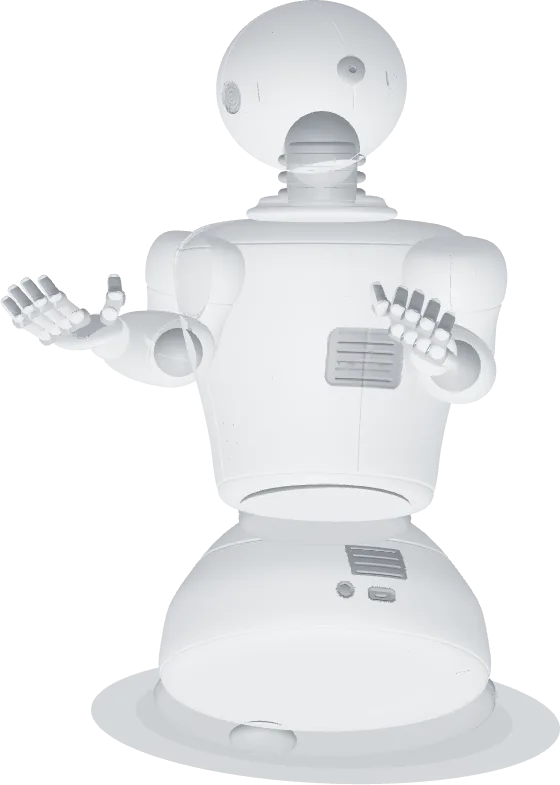
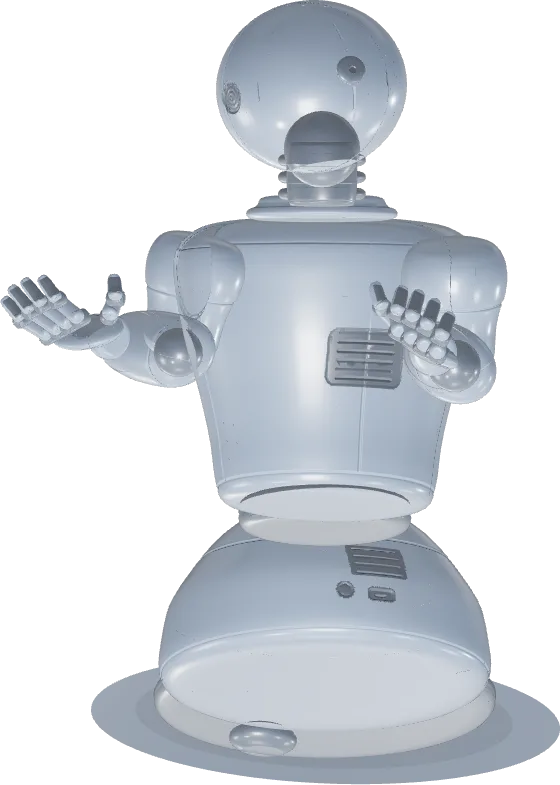
feat: ink-ceramic objects on light chapters with continuous tone blending
- light chapters render objects as deep glossy blue ceramic with a bright rim; dark chapters keep pale pearl; the two blend continuously
- phone stills regenerated in the same palette
- restore the ZONE-01 test dropped by the VEIL-01 rewrite

diff --git a/src/scripts/scene3d.js b/src/scripts/scene3d.js
@@ -140,8 +140,10 @@ export function createScene(canvas, labelLayer) {
     if (state.blend) { si = state.blend.a; sj = state.blend.b; f = Math.max(0, Math.min(1, state.blend.t)); if (si === sj) f = 0; }
     else { const m = Math.max(0, Math.min(STATES.length - 1, state.morph)); si = Math.floor(m); sj = Math.min(STATES.length - 1, si + 1); f = m - si; }
     const ease = f * f * (3 - 2 * f);
-    const isDark = state.ink[0] > 128;
-    renderer.toneMappingExposure += ((isDark ? 0.92 : 0.74) - renderer.toneMappingExposure) * 0.08;   // a deeper exposure on light chapters so part colours separate
+    // 0 on light chapters, 1 on dark ones: follows the ink's own eased flip, so colour, rim and gloss blend instead of snapping
+    const dk = Math.max(0, Math.min(1, (state.ink[0] - 36) / (226 - 36)));
+    const mixv = (a, b) => a + (b - a) * dk;
+    renderer.toneMappingExposure = mixv(0.95, 0.92);
 
     state.twist = (state.twist || 0) * 0.9;                       // scroll twist decays quickly; smooth follows it
     smooth.twist += ((state.twist || 0) - smooth.twist) * 0.2;
@@ -170,9 +172,10 @@ export function createScene(canvas, labelLayer) {
       if (mesh.userData.pre) mesh.userData.pre.visible = mesh.visible;
       u.uProgress.value = prog;
       u.uGlow.value = state.glow;
-      u.uRim.value.set(...(isDark ? [0.38, 0.48, 0.6] : [0.2, 0.26, 0.34]));
+      u.uRim.value.set(mixv(0.42, 0.38), mixv(0.56, 0.48), mixv(0.74, 0.6));
+      mesh.material.clearcoat = mixv(0.7, 0.3); mesh.material.clearcoatRoughness = mixv(0.18, 0.3);
       mesh.material.opacity = state.opacity;
-      const base = isDark ? [0.78, 0.84, 0.92] : [0.5, 0.56, 0.65];
+      const base = [mixv(0.2, 0.78), mixv(0.27, 0.84), mixv(0.38, 0.92)];   // light chapters: deep ink-blue glossy ceramic against the pale fog; dark chapters: pale pearl
       mesh.material.color.setRGB(base[0] * smooth.tint[0], base[1] * smooth.tint[1], base[2] * smooth.tint[2]); // a quiet per-chapter hue on the clay
     }
     renderer.render(scene, camera);

diff --git a/tests/story.spec.ts b/tests/story.spec.ts
@@ -190,3 +190,13 @@ test("VEIL-01 — the contact mist is thick on arrival and clears when wiped (or
   await page.waitForTimeout(1800);
   expect(await opacity()).toBeLessThan(0.1);
 });
+
+test("ZONE-01 — the pill bottle has a phone spacer in Skills; desktop hides it", async ({ page }) => {
+  await openHome(page);
+  const zone = page.locator("#skills .obj-zone");
+  await expect(zone).toHaveCount(1);
+  await expect(zone).toHaveAttribute("data-zone-model", "pills");
+  const small = (await page.viewportSize())!.width < 900;
+  if (small) await expect(zone).toBeVisible({ timeout: 2_000 }).catch(async () => { await jumpTo(page, "#skills"); await expect(zone).toBeVisible(); });
+  else await expect(zone).toBeHidden();
+});
